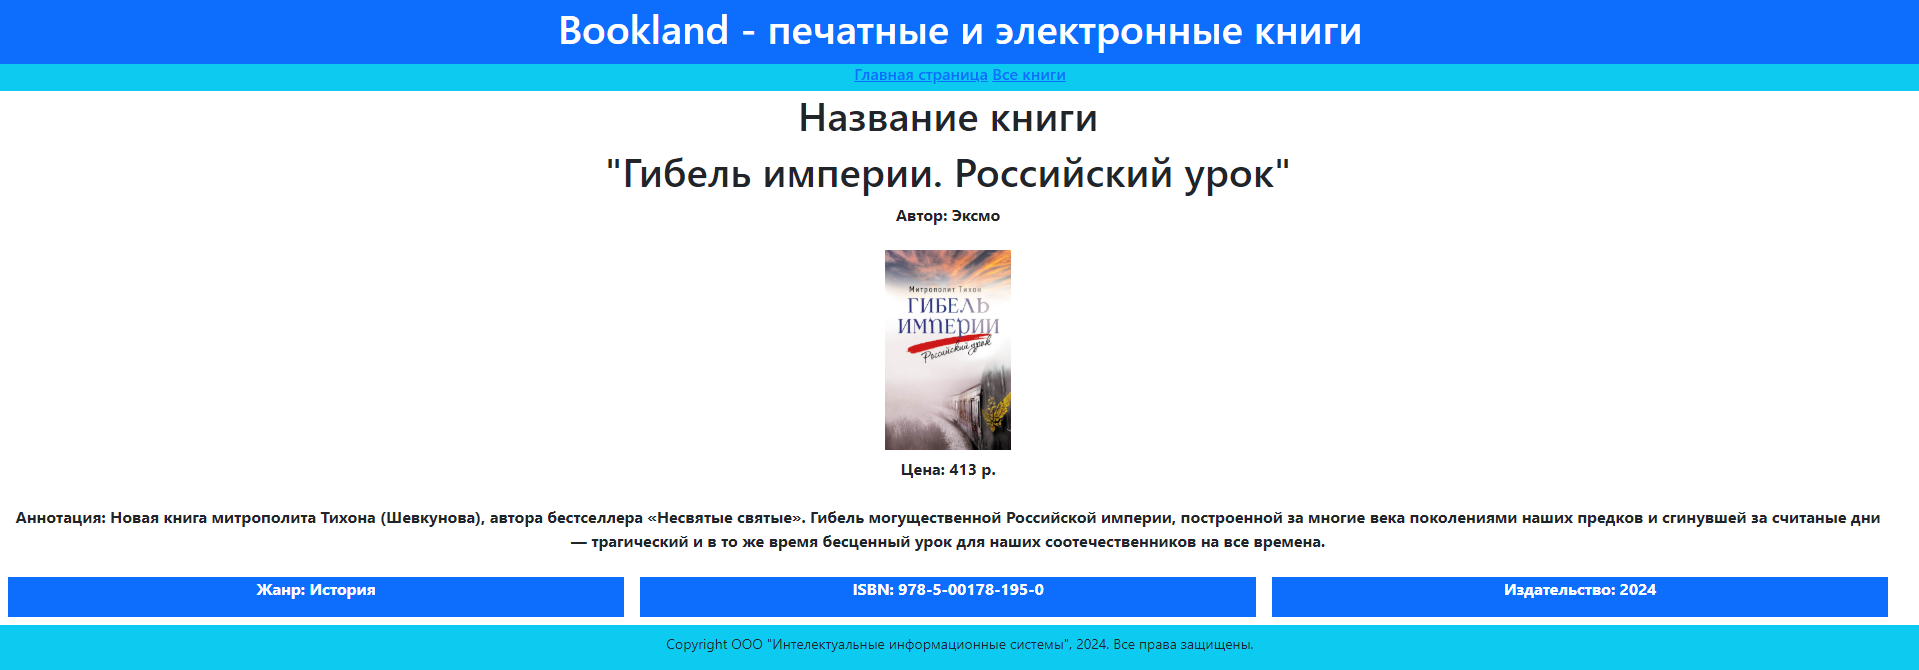
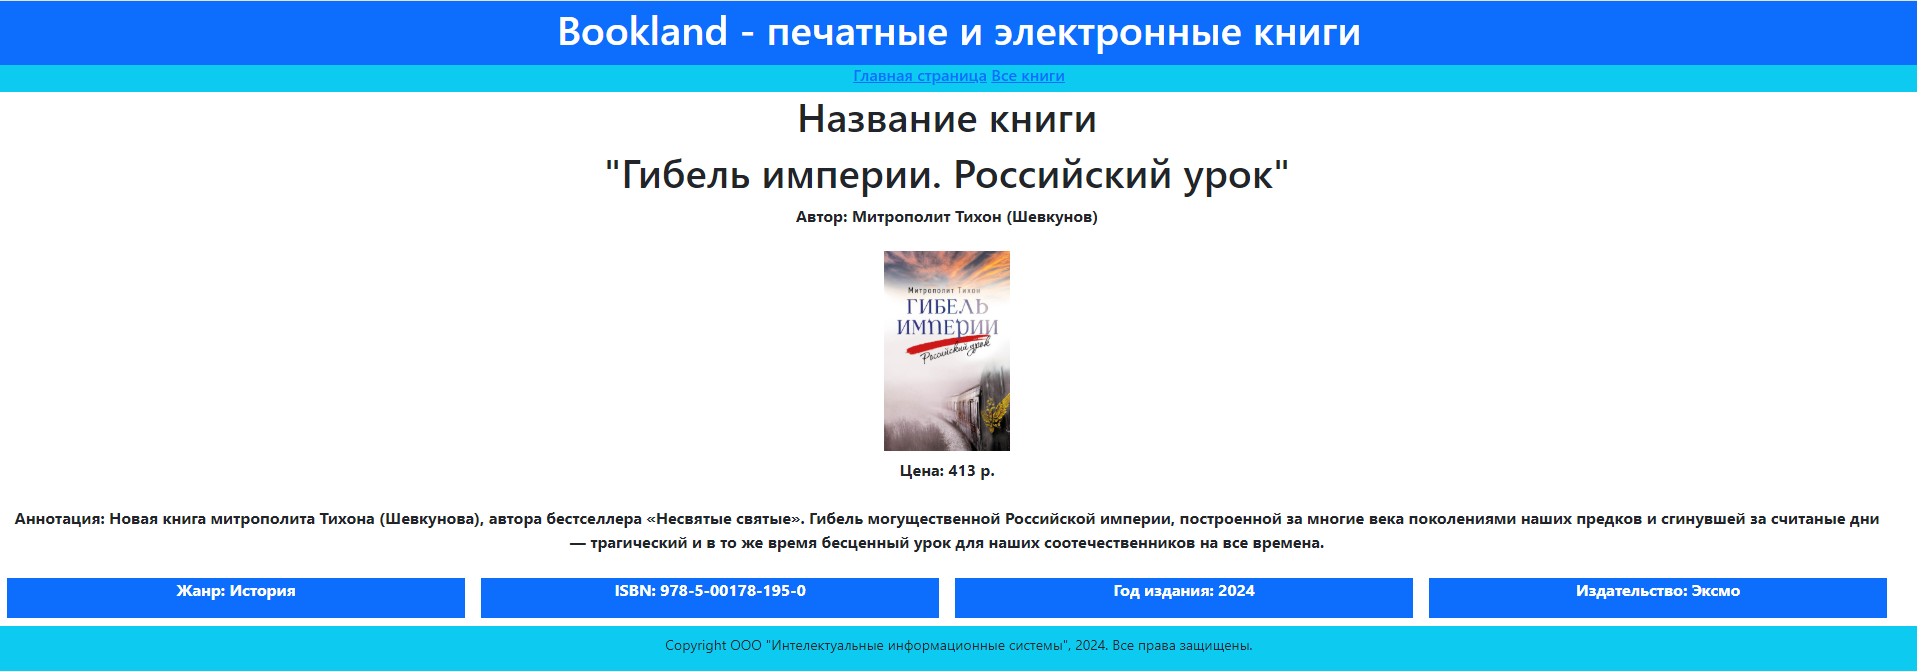
Изменения README.md

diff --git a/Website/templates/book_detail.html b/Website/templates/book_detail.html
@@ -30,6 +30,9 @@
             <p><strong>ISBN: {{ book.isbn }}</strong>
         </div>
         <div class="col mx-2 bg-primary text-white">
+            <p><strong>Год издания: {{ book.year }}</strong>
+        </div>
+        <div class="col mx-2 bg-primary text-white">
             <p><strong>Издательство: {{ book.publisher }}</strong>
         </div>
     </div>

diff --git a/Website/routes.py b/Website/routes.py
@@ -45,7 +45,7 @@ def index():
                            pagination=pagination)
 
 
-attr = ['id', 'title', 'genre', 'author', 'publisher', 'year', 'description', 'isbn', 'price', 'photo']
+attr = ['id', 'title', 'genre', 'publisher', 'year', 'author', 'description', 'isbn', 'price', 'photo']
 
 
 @app.route('/book_list')
